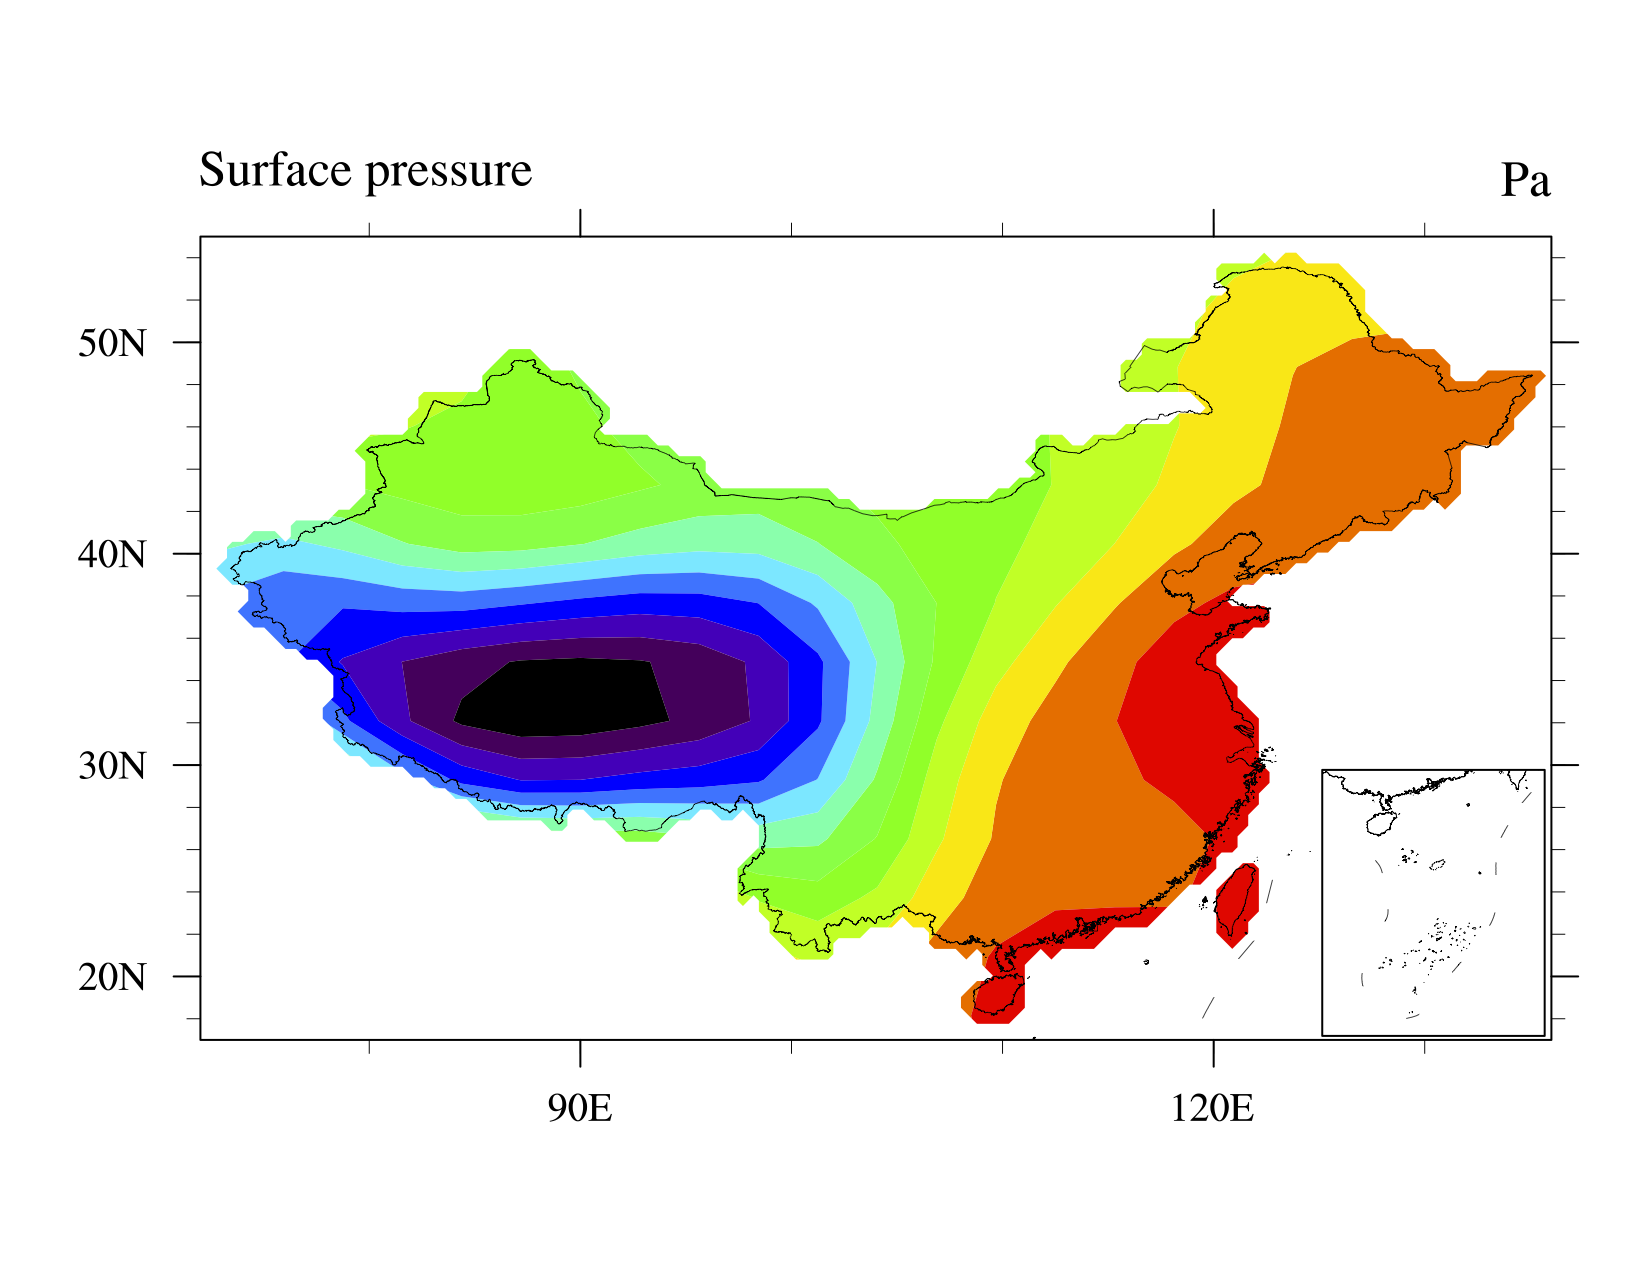
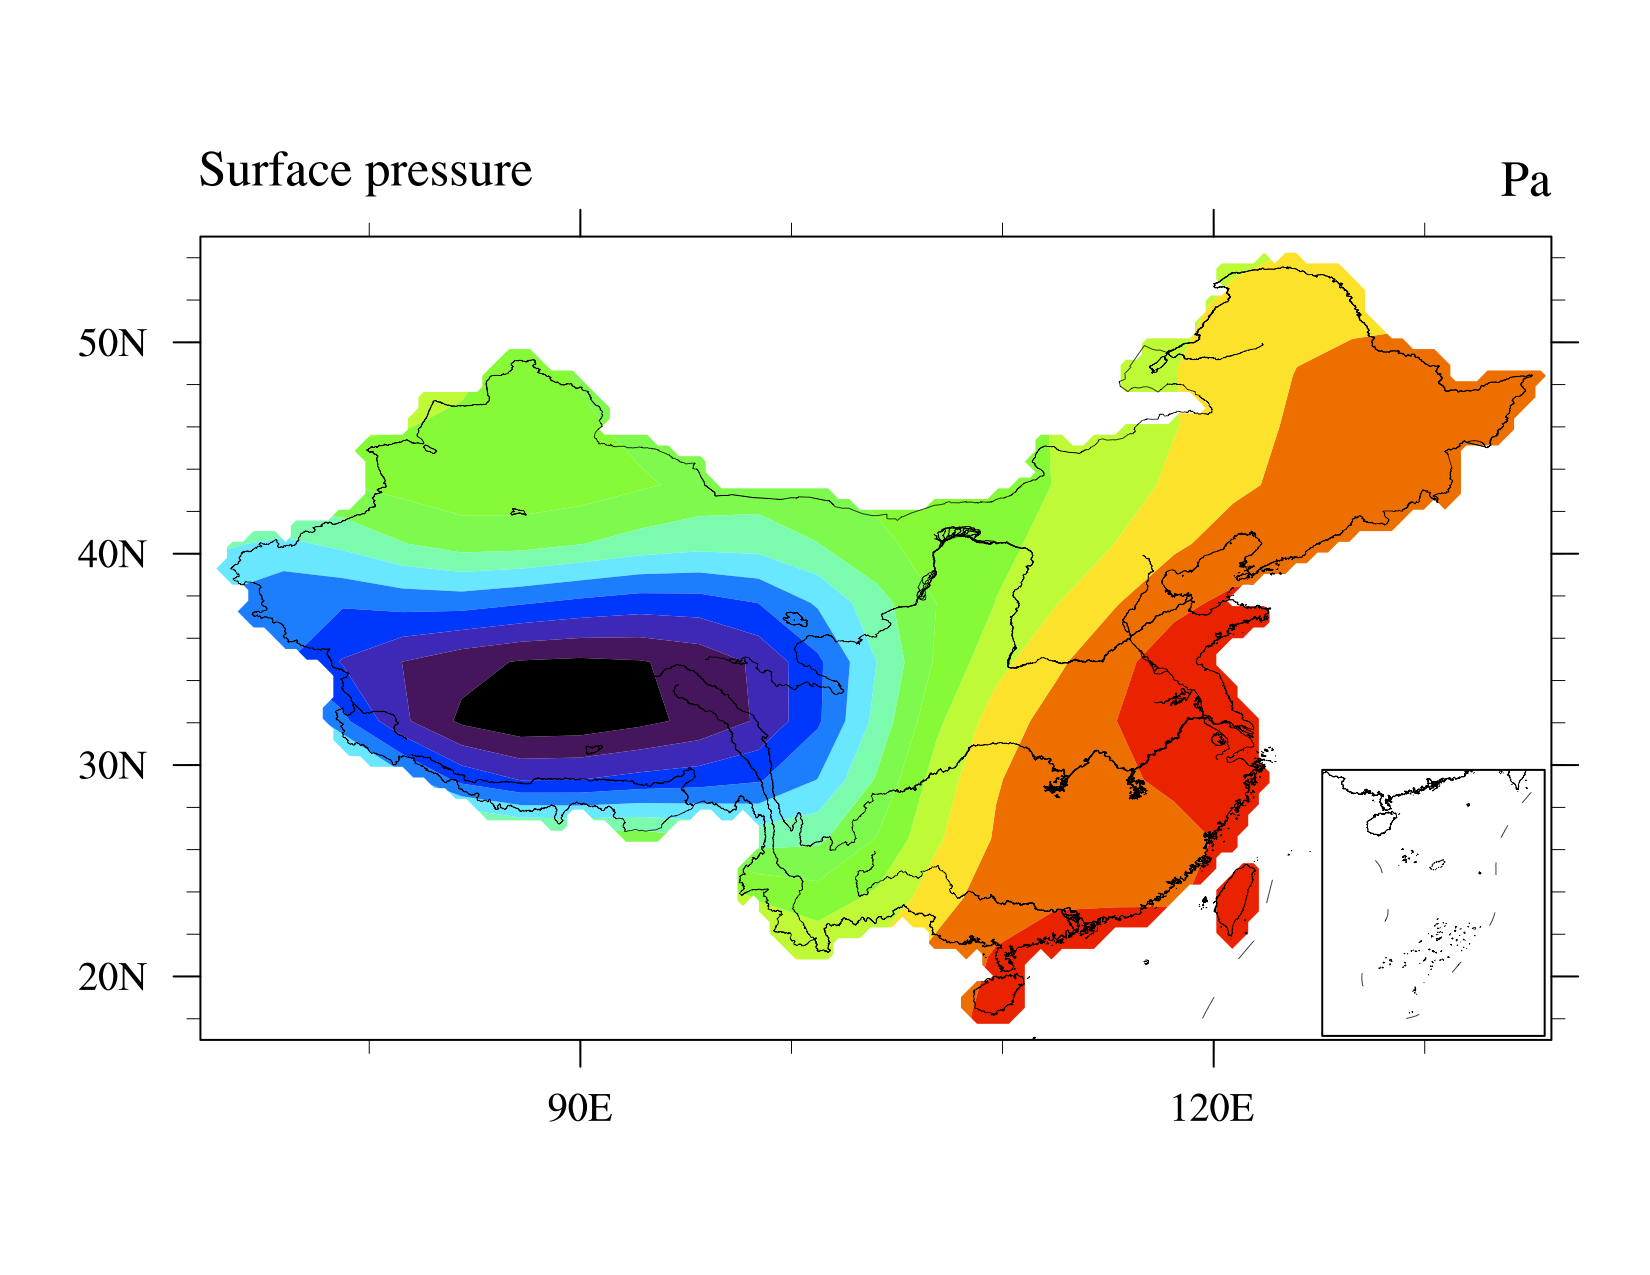
Update doc for river plotting

diff --git a/index.html b/index.html
@@ -26,6 +26,7 @@ comments: true
 <h1>3. News</h1>
 <p>
 	<ul>
+		<li>2012-02-23: Add the option for plotting China first class rivers.
 		<li>2012-02-17: Add the mask for plotting China region only.
 		<li>2012-02-15: Add the script for drawing Taylor diagram from COSP, see
 		<a href="https://github.com/lasg-model/geodiag/blob/master/scripts/cloud/cloud_fraction_taylor_diagram.ncl">here</a>.</li>

diff --git a/documentation.html b/documentation.html
@@ -32,6 +32,7 @@ comments: true
 			config@isShowProvince = False           ; ---------- #2<br>
 			config@isShowSouthChinaSea = True<br>
 			config@isAddMask = True<br>
+			config@isShowRivers = True<br>
 			attach_china_map(wks, plot, config)     ; ---------- #3<br>
 			draw(plot) ; DO NOT FORGET THIS STEP!!! ; ---------- #4
 			</font>
